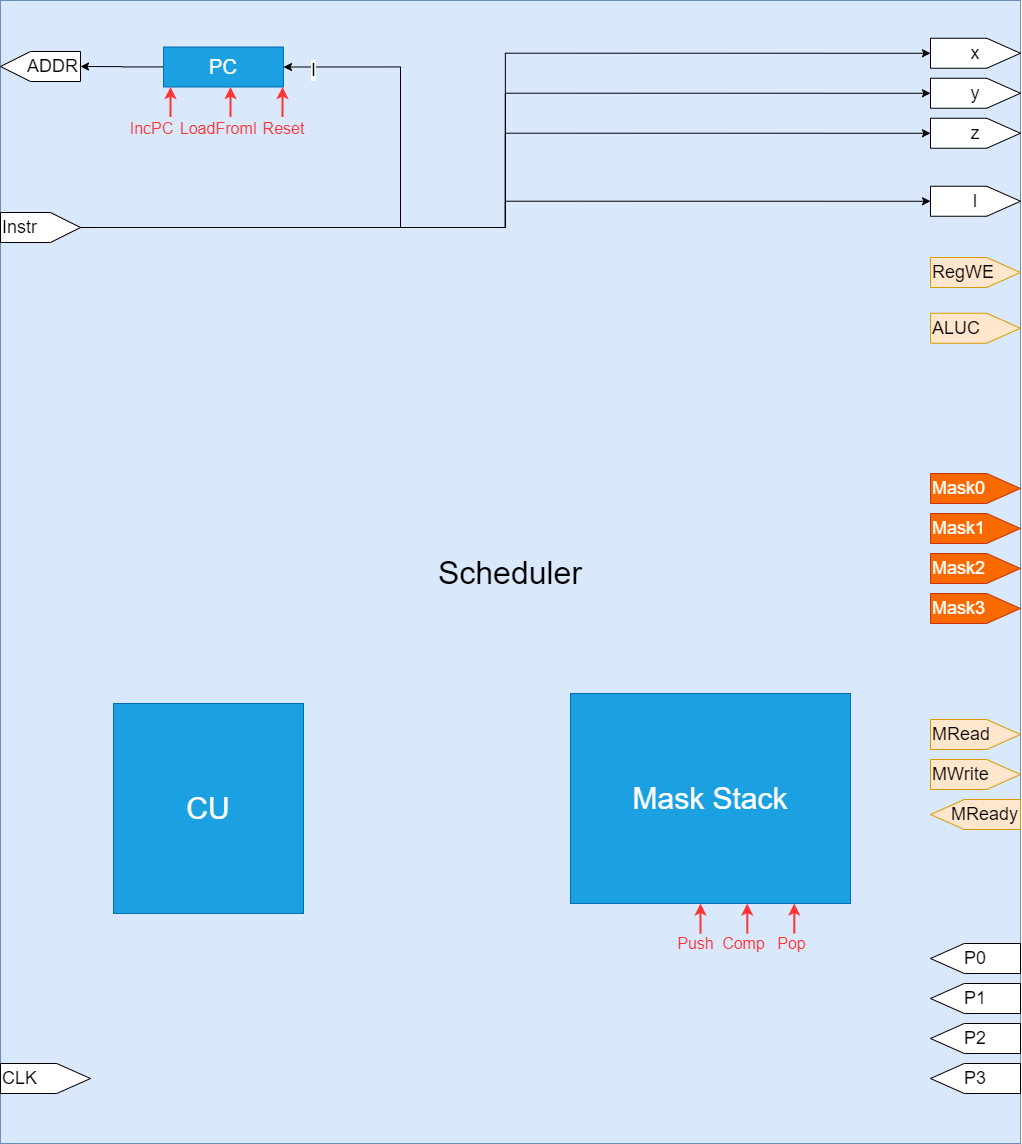
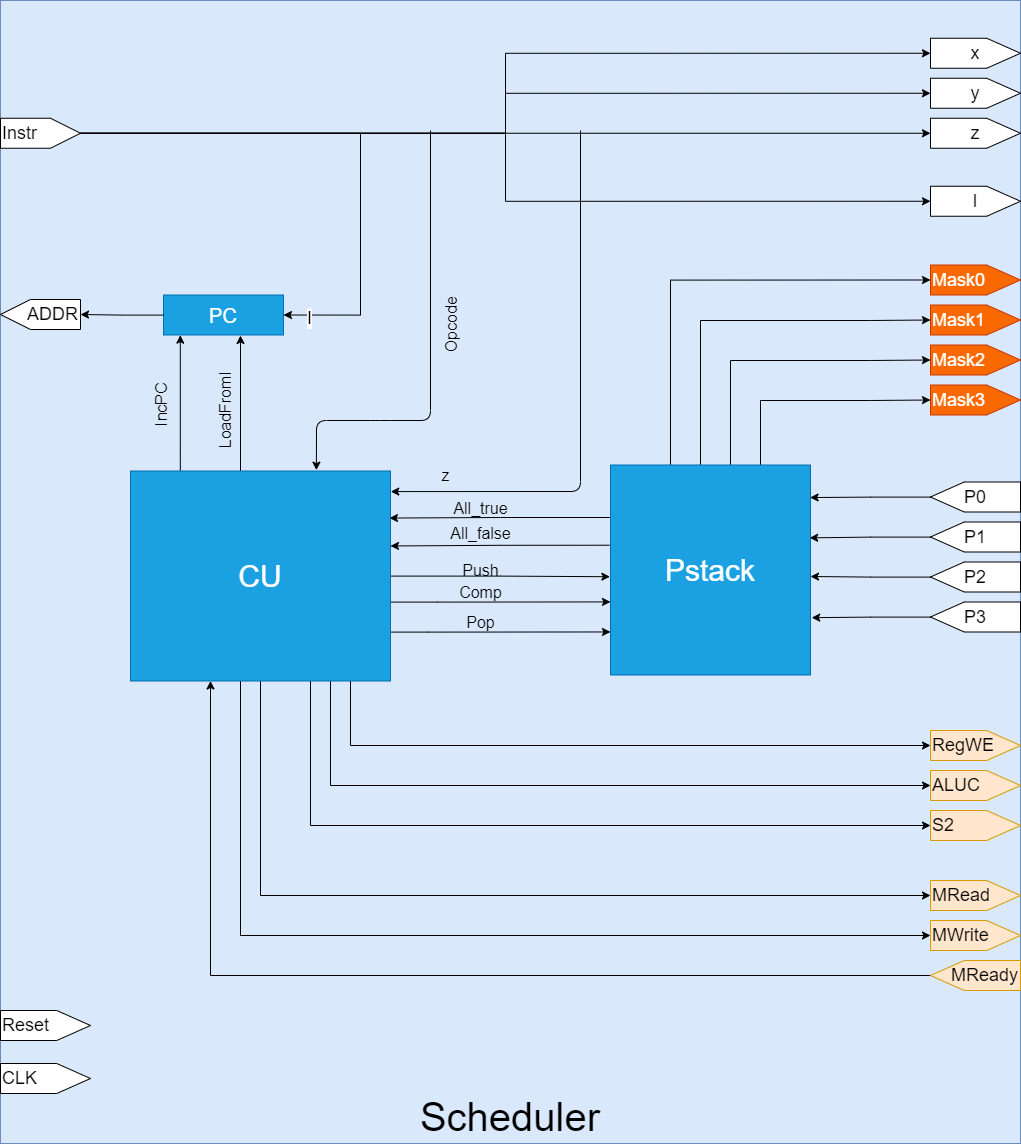
Update docs

diff --git a/Verilog/_Info.md b/Verilog/_Info.md
@@ -15,18 +15,15 @@ The inidividual RTL modules developed for this project are as follows and they a
 3. Instruction Memory
 4. Memory Controller
 
-### Register File
 
-![regfile](../docs/images/regfile.png "regfile")
+
+### Scheduler
+![Scheduler](../docs/images/Scheduler.png "Scheduler")
+
+### SPCore Bank
+
+![n_spcore](../docs/images/n_spcore.png "n_spcore")
 
 ### SPCore
 
 ![SPCore](../docs/images/SPCore.png "SPCore")
-
-
-### Scheduler
-
-### Control Unit
-
-
-
